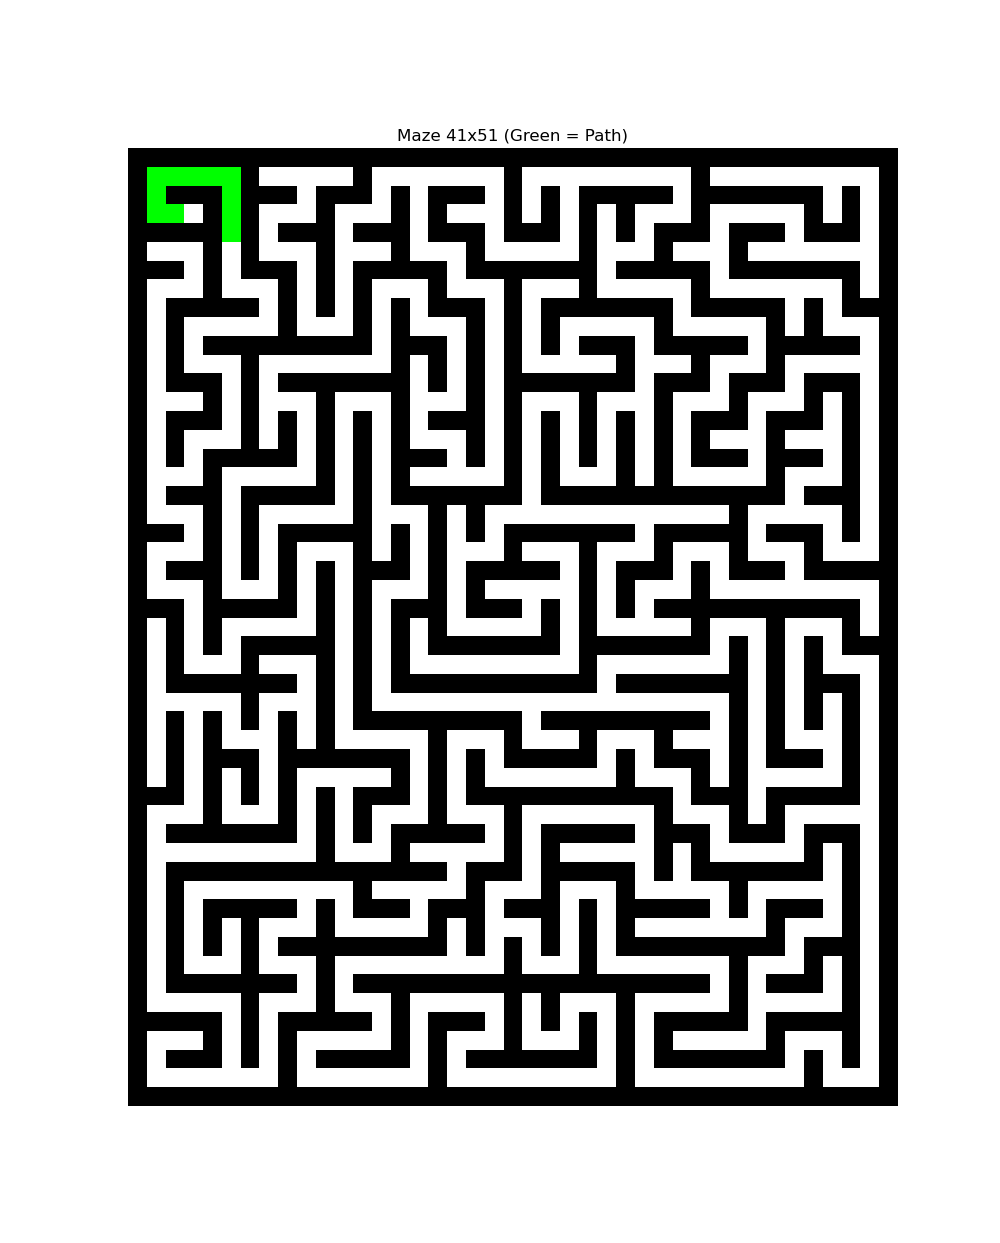
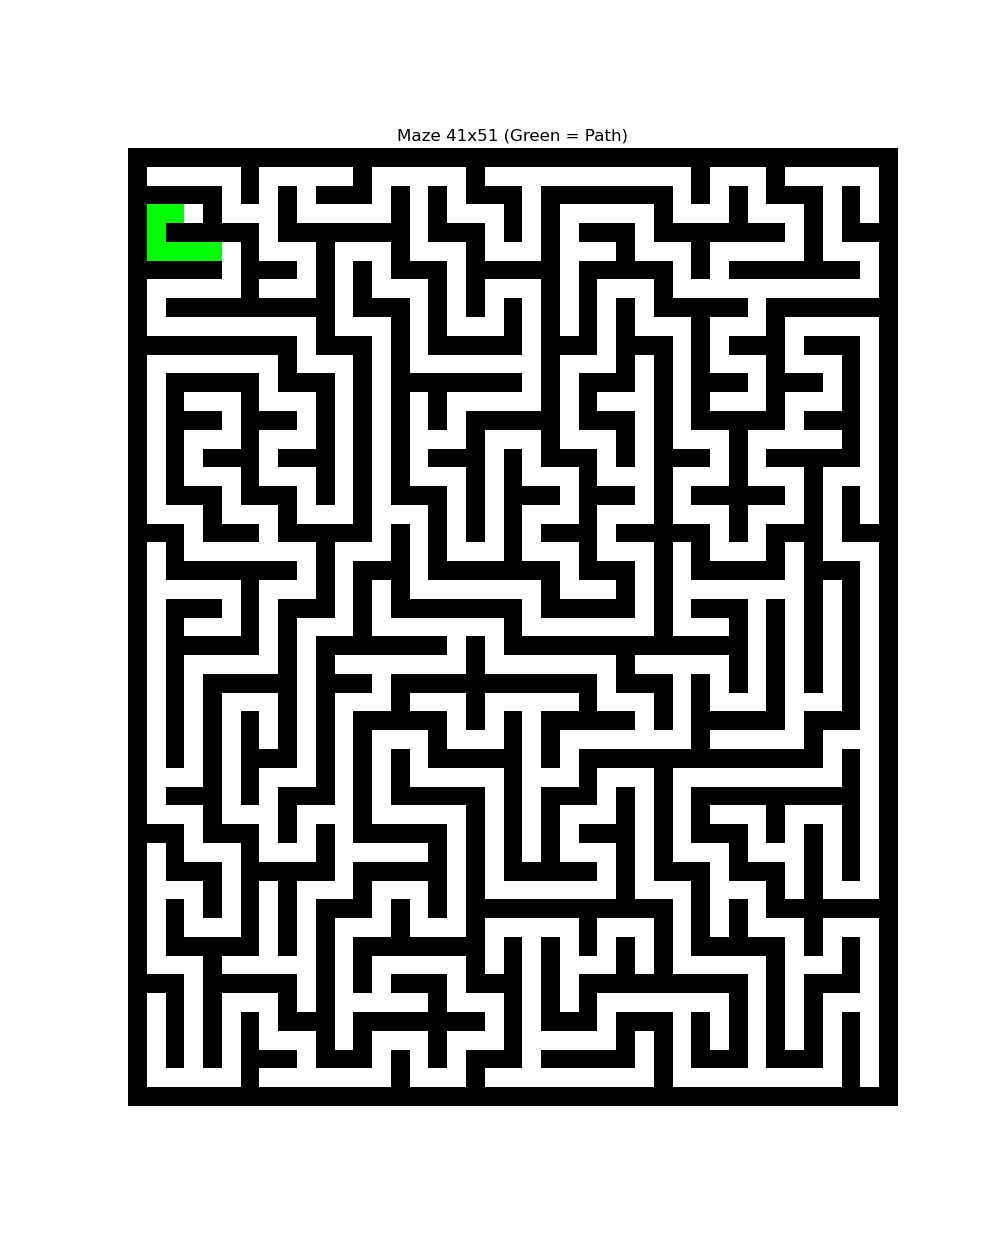
recursive backtracker: progress

diff --git a/a_maze_ing.py b/a_maze_ing.py
@@ -129,7 +129,7 @@ class A_Maze_Ing:
             maze = n.ones((height, width), dtype=int)
             return maze
         
-        def recursive_backtracker(self, maze, enx, eny, height, width, exx, exy) -> None:
+        def recursive_backtracker(self, maze, enx, eny, height, width, exx, exy, path_way):
             maze[eny, enx] = 0
             path = (enx, eny) == (exx, exy)
             directions = ["north", "south", "west", "east"]
@@ -137,27 +137,35 @@ class A_Maze_Ing:
             for move in directions:
                 if move == "north" and eny > 1 and maze[eny-2, enx] == 1:
                     maze[eny-1, enx] = 0
-                    if self.recursive_backtracker(maze, enx, eny-2, height, width, exx, exy):
+                    result = self.recursive_backtracker(maze, enx, eny-2, height, width, exx, exy, path_way)
+                    if result[0]:
                         path = True
                         maze[eny-1, enx] = 42
+                        path_way.append("S")  # Path from exit: came from south (went north during exploration)
                 elif move == "south" and eny < height - 2 and maze[eny+2, enx] == 1:
                     maze[eny+1, enx] = 0
-                    if self.recursive_backtracker(maze, enx, eny+2, height, width, exx, exy):
+                    result = self.recursive_backtracker(maze, enx, eny+2, height, width, exx, exy, path_way)
+                    if result[0]:
                         path = True
                         maze[eny+1, enx] = 42
+                        path_way.append("N")  # Path from exit: came from north (went south during exploration)
                 elif move == "west" and enx > 1 and maze[eny, enx-2] == 1:
                     maze[eny, enx-1] = 0
-                    if self.recursive_backtracker(maze, enx-2, eny, height, width, exx, exy):
+                    result = self.recursive_backtracker(maze, enx-2, eny, height, width, exx, exy, path_way)
+                    if result[0]:
                         path = True
                         maze[eny, enx-1] = 42
+                        path_way.append("E")  # Path from exit: came from east (went west during exploration)
                 elif move == "east" and enx < width - 2 and maze[eny, enx+2] == 1:
                     maze[eny, enx+1] = 0
-                    if self.recursive_backtracker(maze, enx+2, eny, height, width, exx, exy):
+                    result = self.recursive_backtracker(maze, enx+2, eny, height, width, exx, exy, path_way)
+                    if result[0]:
                         path = True
                         maze[eny, enx+1] = 42
+                        path_way.append("W")  # Path from exit: came from west (went east during exploration)
             if path:
                 maze[eny, enx] = 42
-            return path
+            return path, path_way
         
         def generate_maze(self, height: int, width: int, entry_point: tuple, exit_point: tuple) -> n.ndarray:
     
@@ -178,13 +186,13 @@ class A_Maze_Ing:
             
             exit_x = min(exit_x, width - 2)
             exit_y = min(exit_y, height - 2)
-            
-            self.recursive_backtracker(maze, entry_x, entry_y, height, width, exit_x, exit_y)
+            path_way = []
+            self.recursive_backtracker(maze, entry_x, entry_y, height, width, exit_x, exit_y, path_way)
             maze[entry_y, entry_x] = 0xE
             maze[exit_y, exit_x] = 0xE2
             
             
-            return maze
+            return maze, path_way
         
         def imperfect_maze(self, maze, height, width, flawed):
             removeable_walls = []
@@ -217,43 +225,43 @@ class A_Maze_Ing:
                 if height % 2 == 0:
                     height += 1
                 
-                maze = self.generate_maze(height, width, entry, exit)
+                maze, path_way = self.generate_maze(height, width, entry, exit)
                 if not perfect:
                     maze = self.imperfect_maze(maze, height, width, flawed)
                 
-                return maze
+                return maze, path_way
             except Exception as e:
                 print(f"Error: {e}")
                 sys.exit(1)
-            finally:
-                display_maze = n.copy(maze)
-                display_maze = display_maze.astype(float)
-                display_maze[maze == 42] = 0.5 
-                display_maze[maze == 0] = 1.0   
-                display_maze[maze == 1] = 0.0  
+            # finally:
+            #     display_maze = n.copy(maze)
+            #     display_maze = display_maze.astype(float)
+            #     display_maze[maze == 42] = 0.5 
+            #     display_maze[maze == 0] = 1.0   
+            #     display_maze[maze == 1] = 0.0  
                 
-                # Dynamically calculate figure size based on maze dimensions
-                aspect_ratio = width / height
-                base_size = 10  # Base size for smaller dimension
-                if aspect_ratio > 1:  # Width > Height
-                    fig_width = base_size * aspect_ratio
-                    fig_height = base_size
-                else:  # Height >= Width
-                    fig_width = base_size
-                    fig_height = base_size / aspect_ratio
+            #     # Dynamically calculate figure size based on maze dimensions
+            #     aspect_ratio = width / height
+            #     base_size = 10  # Base size for smaller dimension
+            #     if aspect_ratio > 1:  # Width > Height
+            #         fig_width = base_size * aspect_ratio
+            #         fig_height = base_size
+            #     else:  # Height >= Width
+            #         fig_width = base_size
+            #         fig_height = base_size / aspect_ratio
                 
-                plt.figure(figsize=(fig_width, fig_height))
-                cmap = mcolors.ListedColormap(['black', 'lime', 'white'])
-                bounds = [0, 0.25, 0.75, 1.0]
-                norm = mcolors.BoundaryNorm(bounds, cmap.N)
+            #     plt.figure(figsize=(fig_width, fig_height))
+            #     cmap = mcolors.ListedColormap(['black', 'lime', 'white'])
+            #     bounds = [0, 0.25, 0.75, 1.0]
+            #     norm = mcolors.BoundaryNorm(bounds, cmap.N)
                 
-                plt.imshow(display_maze, cmap=cmap, norm=norm) 
+            #     plt.imshow(display_maze, cmap=cmap, norm=norm) 
                 
-                plt.title(f"Maze {maze.shape[1]}x{maze.shape[0]} (Green = Path)")
-                plt.axis('off') 
+            #     plt.title(f"Maze {maze.shape[1]}x{maze.shape[0]} (Green = Path)")
+            #     plt.axis('off') 
                 
-                plt.savefig("maaaze.png")
-                print(f"Maze visualization saved to maaaze.png")
+            #     plt.savefig("maaaze.png")
+            #     print(f"Maze visualization saved to maaaze.png")
     @staticmethod
     def maze_printer(maze):
         
@@ -276,27 +284,35 @@ class A_Maze_Ing:
                 print(mapping.get(cell, PATH), end="")
             print(RESET)
     @staticmethod
-    def maze_hexadecimal(maze, output_file, height, width, entry_p, exit_p):
+    def maze_hexadecimal(maze, output_file, height, width, entry_p, exit_p, path_way):
+        duplicate_path_cells = []
+        for direction in path_way:
+            duplicate_path_cells.append(direction)
+            duplicate_path_cells.append(direction)
         with open(output_file, "w+") as f:
+            
             for y in range(1, height-1):
                 for x in range(1, width-1):
                     cell_hex = 0
-                    if maze[y-1][x] == 1: cell_hex += 1
-                    if maze[y+1][x] == 1: cell_hex += 4
-                    if maze[y][x+1] == 1: cell_hex += 2
-                    if maze[y][x-1] == 1: cell_hex += 8
+                    if maze[y-1][x] == 1: cell_hex += 1 #North
+                    if maze[y+1][x] == 1: cell_hex += 4 #South
+                    if maze[y][x+1] == 1: cell_hex += 2 #East
+                    if maze[y][x-1] == 1: cell_hex += 8 #West
                     if x < width-2:
                         print(hex(cell_hex)[2:].upper(), file=f, end="")
                     else:
                         print(hex(cell_hex)[2:].upper(), file=f, end="\n")
-            enx, eny, = entry_p
-            exx, exy, = exit_p
-            print("\n")
-            print(f"{enx},{eny}")
-            print(f"{exx},{exy}")
+            enx, eny, = entry_p["x"], entry_p["y"]
+            exx, exy, = exit_p["x"], exit_p["y"]
+            print(f"\n{enx},{eny}", file=f, end="\n")
+            print(f"{exx},{exy}", file=f, end="\n")
+            for direction in duplicate_path_cells:
+                print(direction, file=f, end="")
+            print
+            
     def generate_maze(self):
-        maze = self.maze.maze_bringer()
-        A_Maze_Ing.maze_hexadecimal(maze, self.output_file, self.height, self.width, self.entry, self.exit)
+        maze, path_way = self.maze.maze_bringer()
+        A_Maze_Ing.maze_hexadecimal(maze, self.output_file, self.height, self.width, self.entry, self.exit, path_way)
         A_Maze_Ing.maze_printer(maze)
         
     def print_arguments(self):
